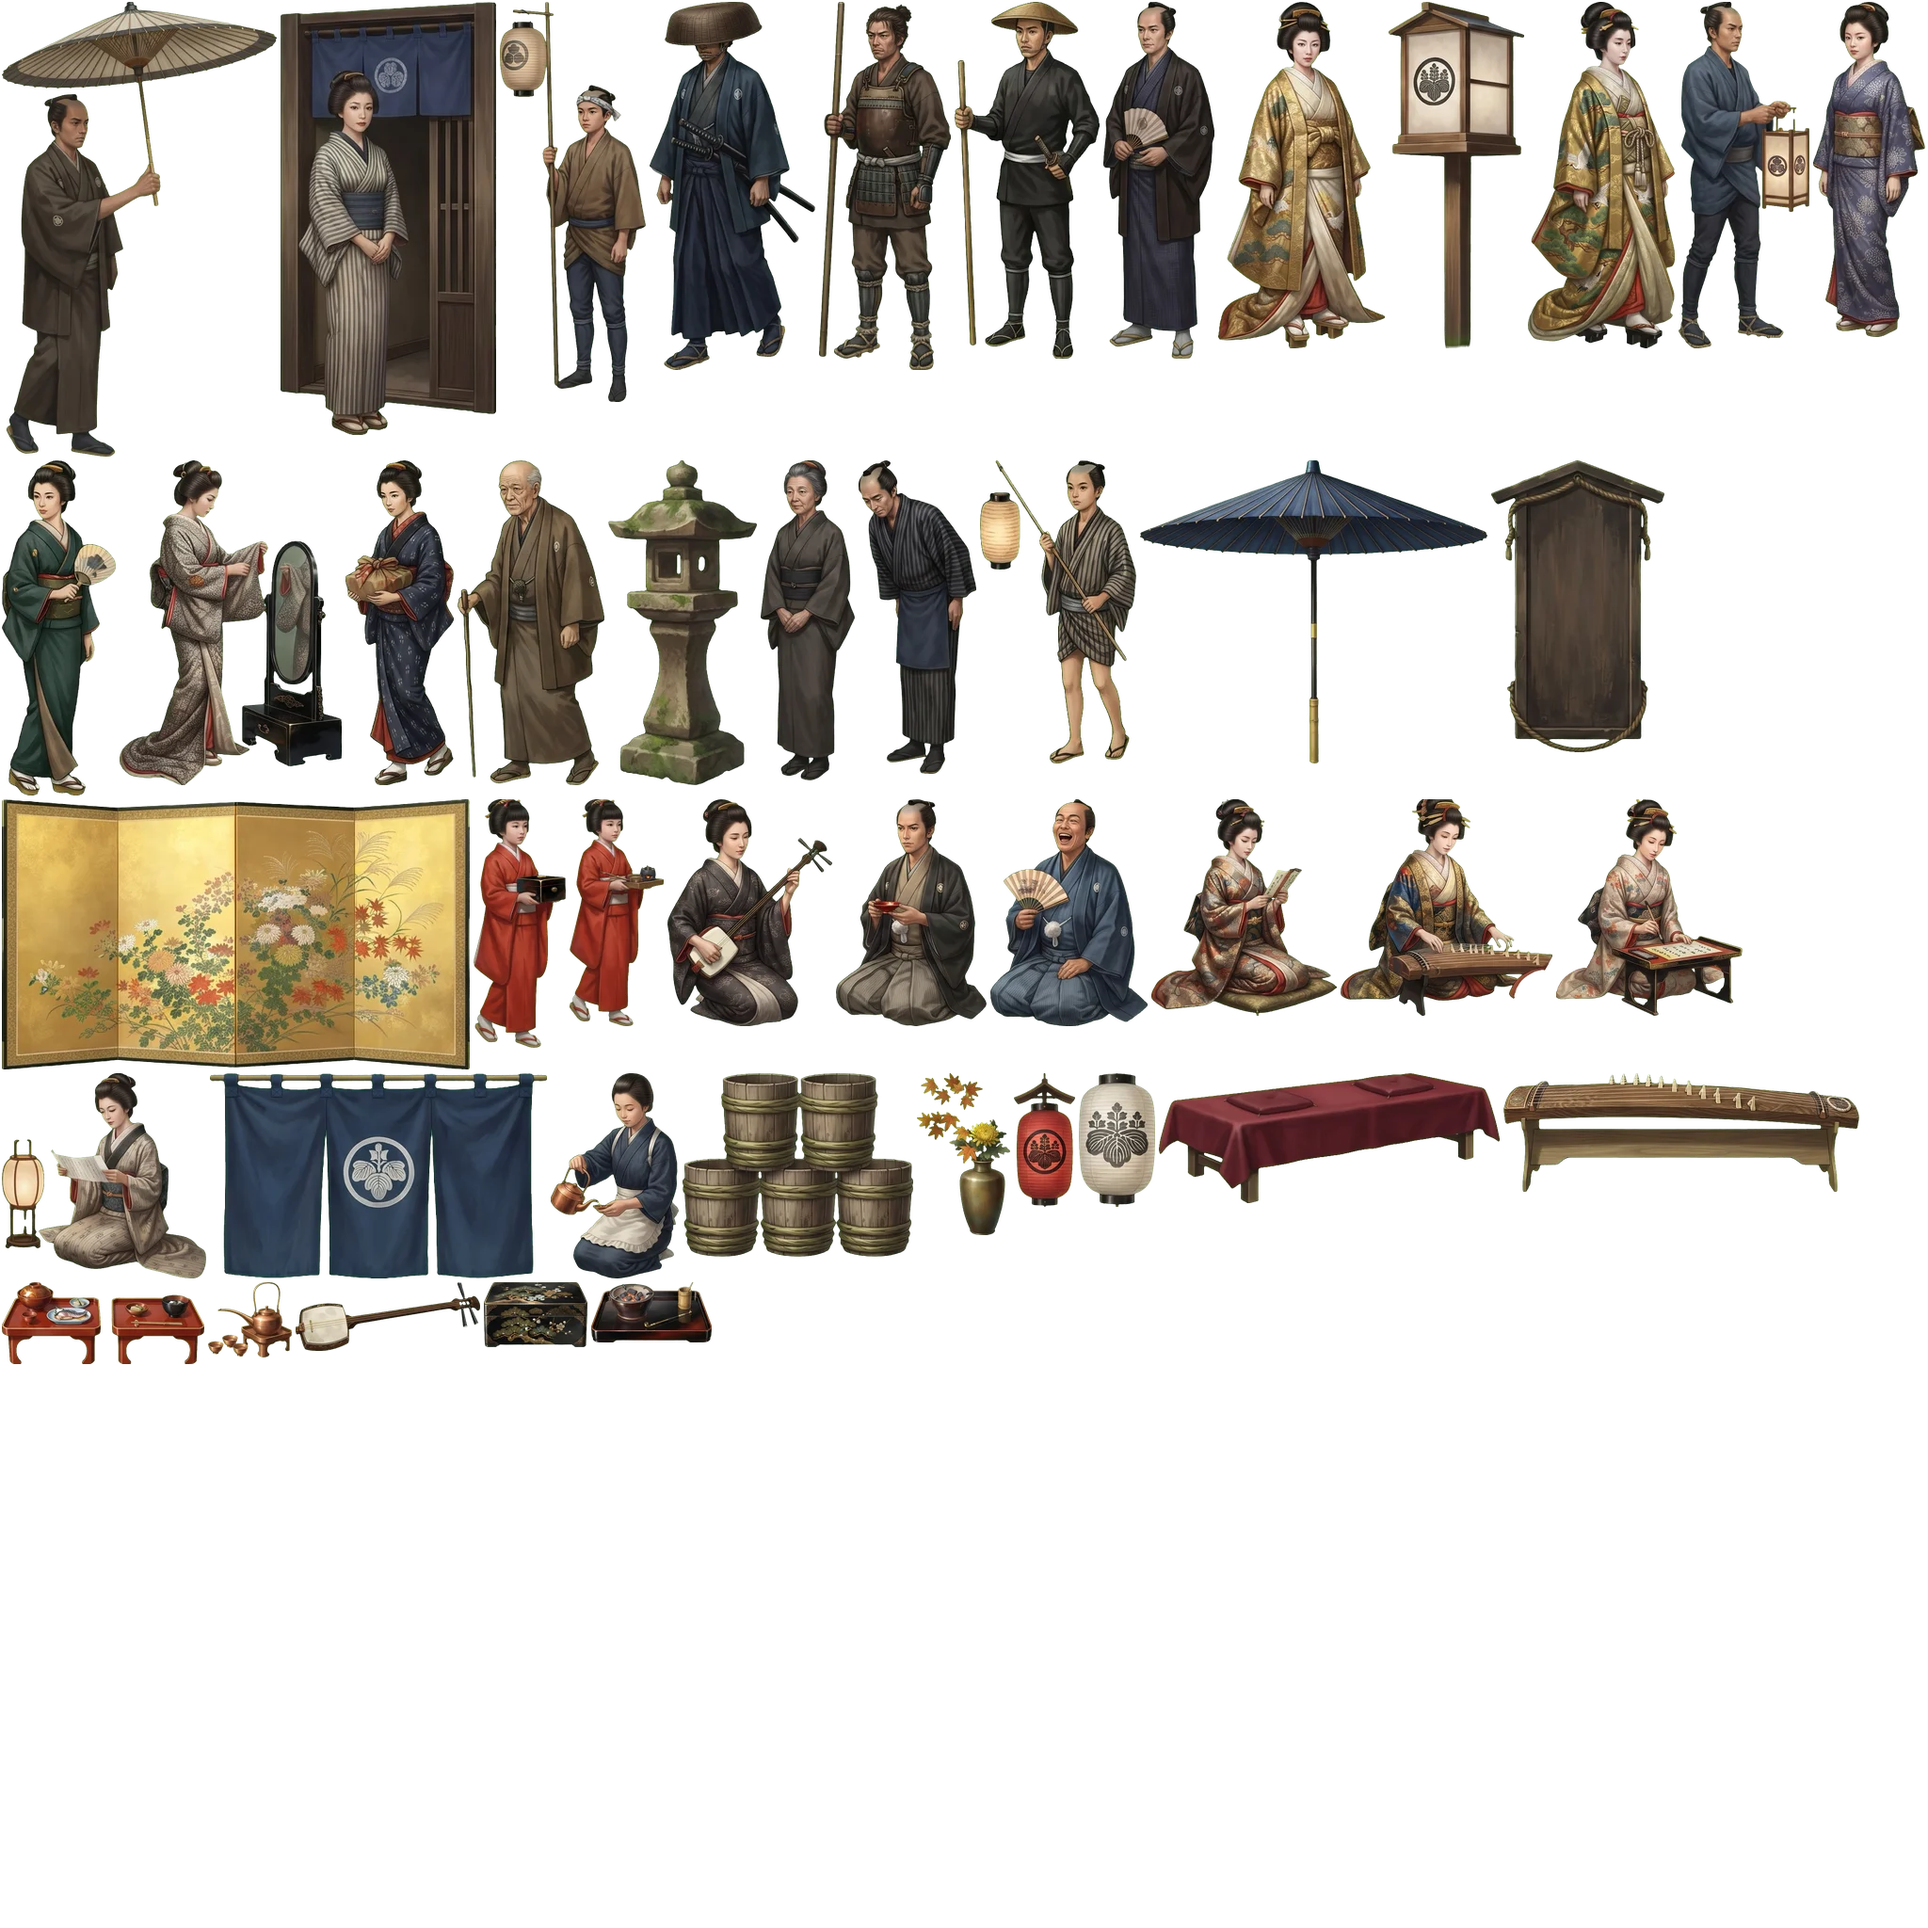
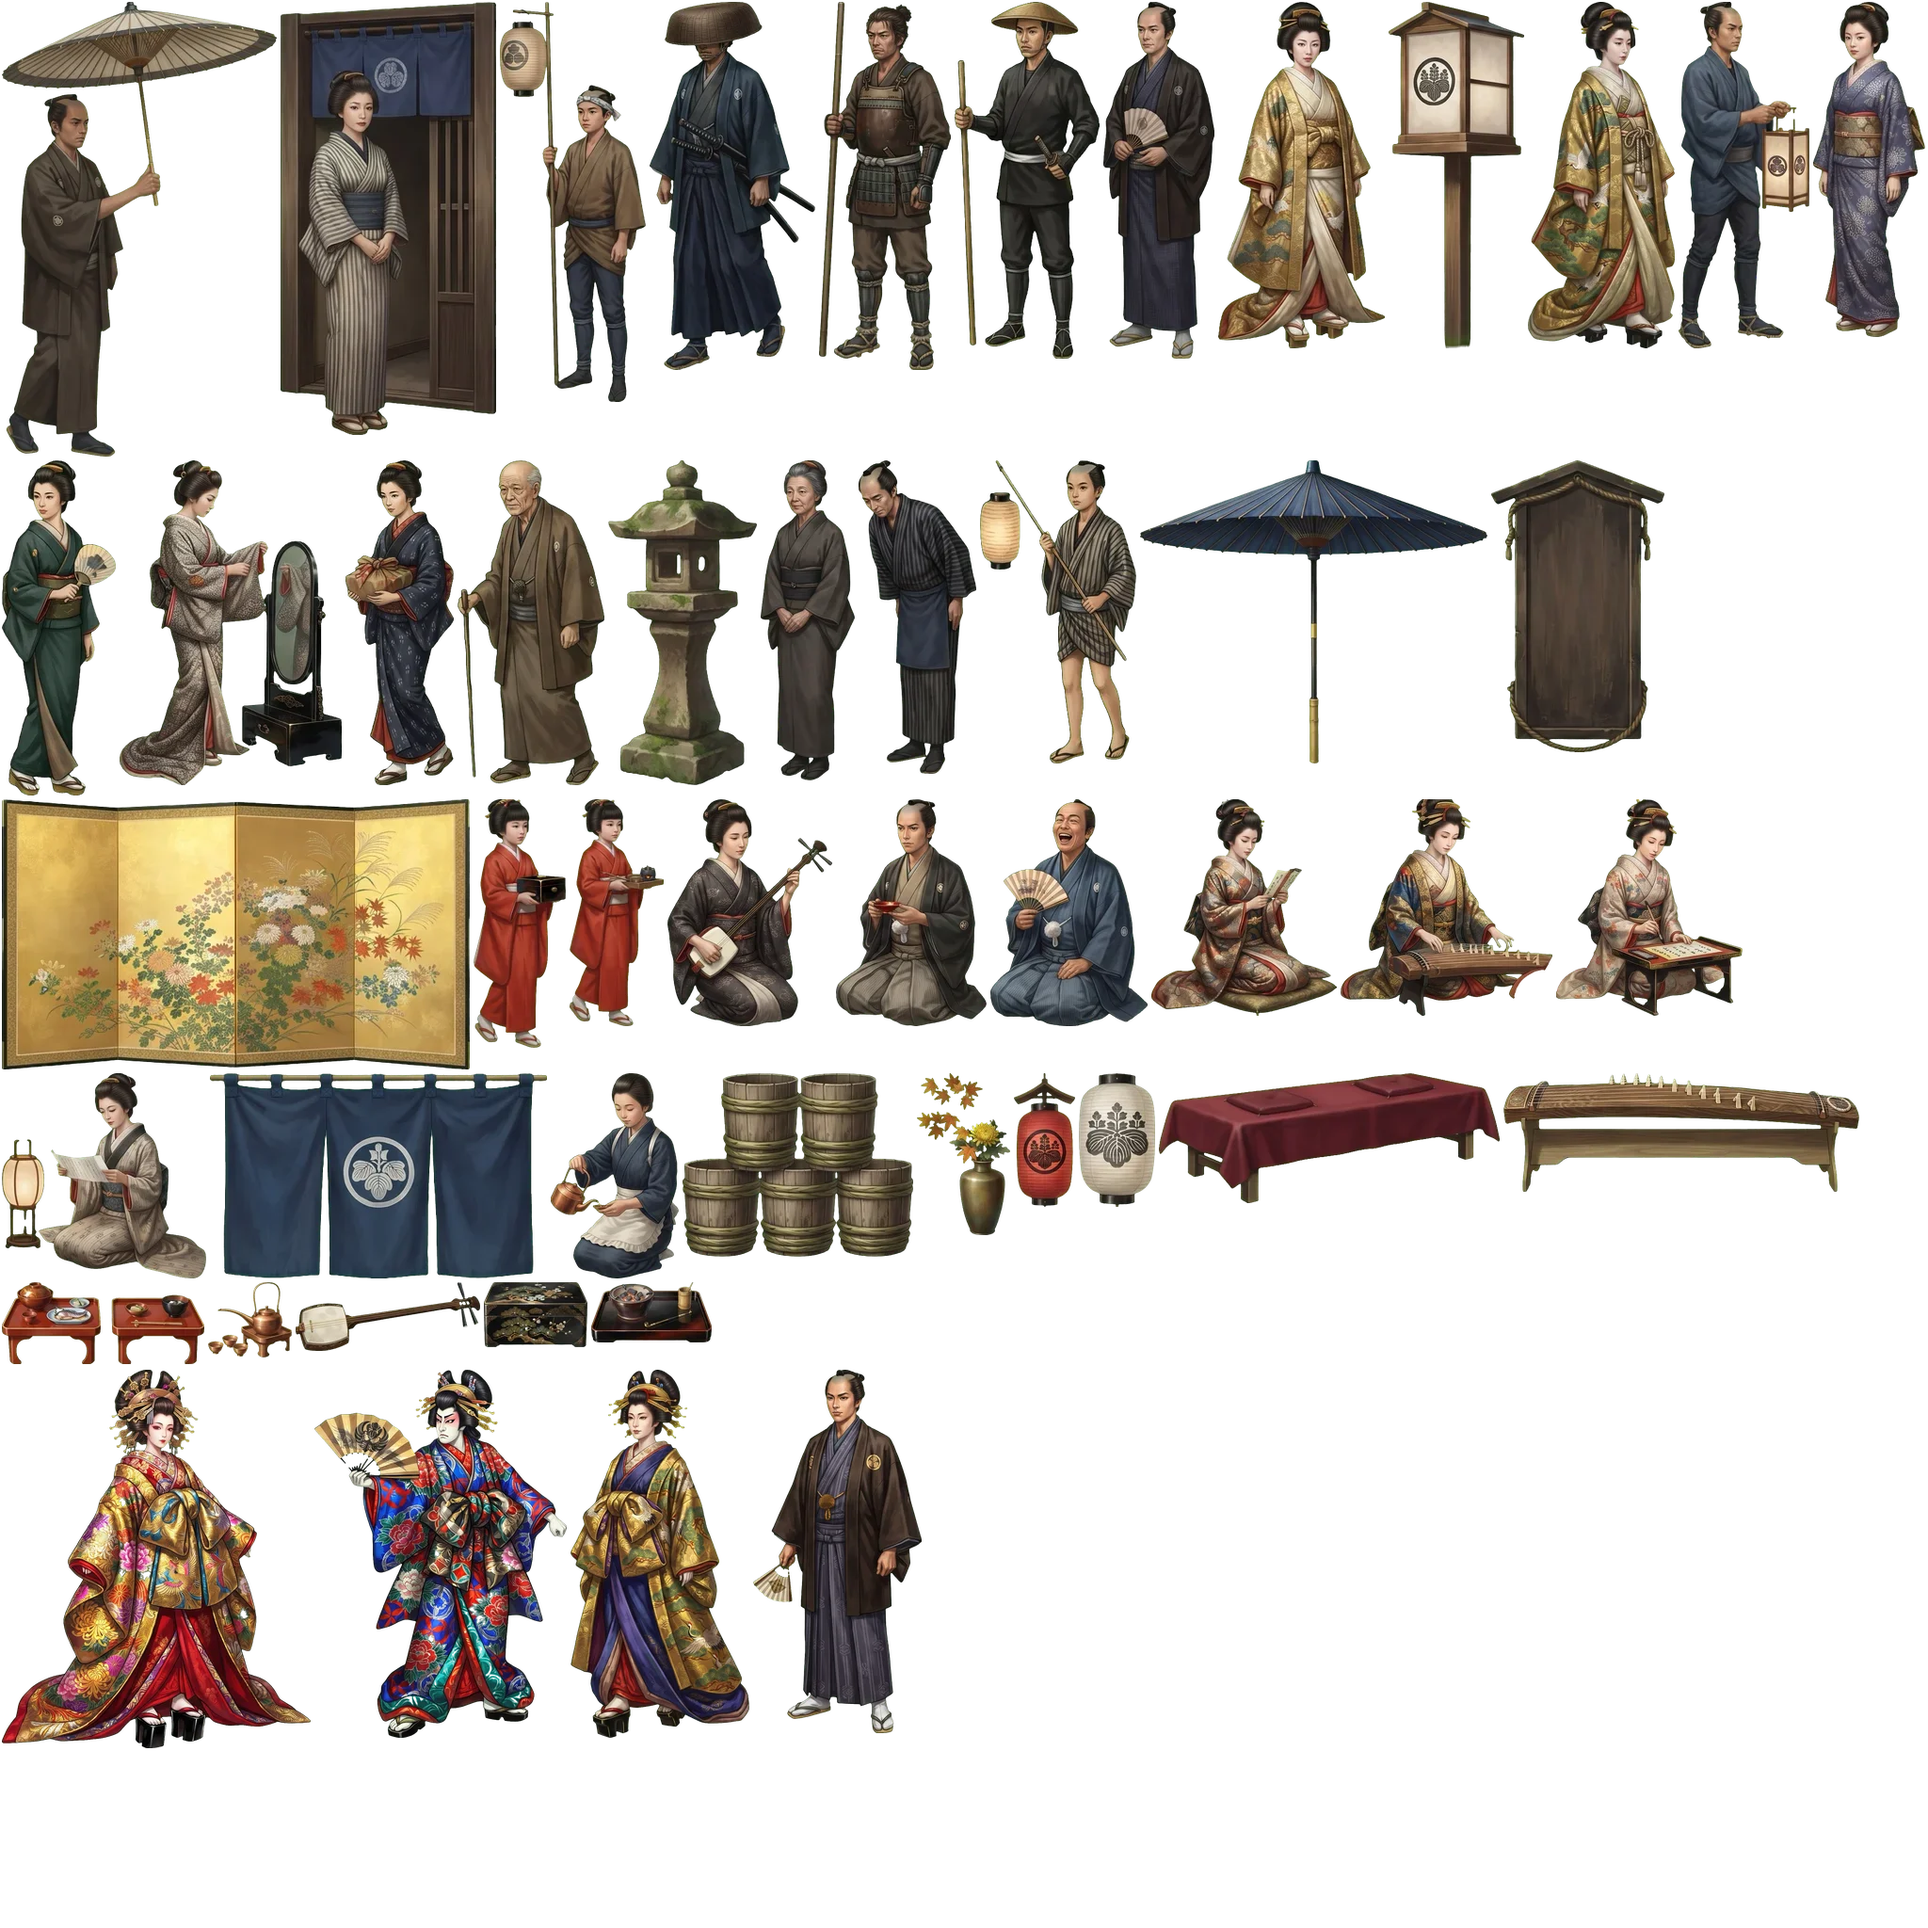
元吉原の人物（晴れ着の太夫2人・芝居町の役者・若旦那）を共通素材に追加
Claude-Session: https://claude.ai/code/session_01QTjZDsMQTCvnxksEpW3PQF

Changed region(s): [[0.1562, 0.6875, 0.5, 0.9062], [0.0, 0.6875, 0.1562, 0.9062]]

diff --git a/oshiro/common/README.md b/oshiro/common/README.md
@@ -20,7 +20,7 @@
 | `deco_azuchi.webp` | 装飾（安土で描き起こし）: 金の鯱 `az_shachi`・唐破風 `az_karahafu`・千鳥破風 `az_chidori`・のれんと提灯（天下布武 `az_noren_tenka`/`az_lan_tenka`、桐紋3種 `az_noren_kiri`・`az_noren_kiri53`・`az_noren_kiri57`/`az_lan_kiri`・`az_lan_kiri53`・`az_lan_kiri57`）。桐紋は豊臣家の大阪城などにも使える。安土では鯱と提灯を `deco_azuchi2` に移し、暖簾は `tex/az_noren_tenka.webp` を使うため、いまは読み込んでいない | （他の城向けの予備） |
 | `deco_azuchi2.webp` | 安土の人物と小物: 織田信長 `az_nobunaga`・小姓 `az_kosho`・奥の女房 `az_nyobo`・狩野派の絵師 `az_eshi`・茶人 `az_chajin`・普請の石工 `az_ishiku`・近江の商人 `az_omi`・楽市の店主 `az_tenshu`・湖の船頭 `az_sendo`・町の子ども `az_kodomo`・南蛮の商人 `az_nanban`・摠見寺の僧 `az_sokenso`／楽市の露店 `az_roten`・焼き物の露店 `az_yakimono`・魚売りの盤台 `az_bandai`・米俵の山 `az_komedawara`・荷車 `az_niguruma`・湊の杭 `az_kui`・小舟 `az_kobune`・茶屋の床几 `az_shogi`・酒樽と菰かぶり `az_sake`・高札（「定」） `az_kosatsu`・金の擬宝珠 `az_giboshi`・柱の昇り龍/降り龍 `az_ryu_up`/`az_ryu_dn`・金の鯱 `az_shachi`・天下布武の提灯 `az_lan_tenka`。町人・商人・僧・小物は戦国〜江戸初めの城下ならどこでも使える | 安土・江戸（atlas の5ページ目として読む。江戸は日本橋の町人・奥の女房（大奥）・小姓（中奥）・露店・小舟・金の鯱以外の小物に使用） |
 | `deco_ooku.webp` | 大奥の人物（江戸で描き起こし。2048px、アトラスの6ページ目として読む。位置と高さは江戸城の index.html の `deco_ooku` の行）: 将軍 `ok_shogun`・手燭の御中臈 `ok_teshoku_a`/`_b`・平伏する女中 `ok_ojigi`・御台所 `ok_midai`・御年寄 `ok_toshiyori`・平伏する御中臈 `ok_churo_bow`・茶の盆 `ok_tray`・水桶 `ok_oke`・燭台 `ok_shokudai`・衣装の盆 `ok_kimono`・御坊主 `ok_obozu`・書く読む `ok_shoin`・貝合わせ `ok_kaiawase`・琴と生け花 `ok_koto`／総触れの行列 `gy_*`（8人）／長局 `ng_saiho`・`ng_hoki`・`ng_andon`・`ng_komori`・`ng_cha`／広敷の男 `hs_yakunin`・`hs_kumigashira`・`hs_shonin_hako`・`hs_shonin_furoshiki`・`hs_ninsoku` | 江戸 |
-| `deco_yoshiwara.webp` | 元吉原の人物と道具（江戸で描き起こし。2048px、アトラスの7ページ目として読む。位置と高さは江戸城の index.html の `deco_yoshiwara` の行）: 遊女 `yw_*`（太夫・格子・端など）、太夫の道中 `yd_*`（太夫・禿2人・傘持ち・提灯持ち）、座敷の人 `yz_*`（琴・短冊・三味線・客の侍と町人・女中）、通りの人 `yp_*`（町人客・編笠の侍・遣手・揚屋の亭主・若い衆・番人など）と提灯・行灯・灯籠・床几・看板、座敷の道具 `yi_*`（金屏風・膳・銚子・煙草盆・花瓶・文箱・琴・三味線） | 江戸 |
+| `deco_yoshiwara.webp` | 元吉原の人物と道具（江戸で描き起こし。2048px、アトラスの7ページ目として読む。位置と高さは江戸城の index.html の `deco_yoshiwara` の行）: 遊女 `yw_*`（太夫・格子・端など）、太夫の道中 `yd_*`（太夫・禿2人・傘持ち・提灯持ち）、座敷の人 `yz_*`（琴・短冊・三味線・客の侍と町人・女中）、晴れ着の太夫 `yo_oiran`・`yo_tayu2`、役者 `yo_kabuki`、通りの人 `yp_*`（若旦那 `yp_wakadanna`・町人客・編笠の侍・遣手・揚屋の亭主・若い衆・番人など）と提灯・行灯・灯籠・床几・看板、座敷の道具 `yi_*`（金屏風・膳・銚子・煙草盆・花瓶・文箱・琴・三味線） | 江戸 |
 | `tex/az_noren_tenka.webp` | 天下布武の暖簾（512px。2048pxの装飾ページを丸ごと読まずに済むよう切り出したもの） | 安土 |
 | `atlas.json` | 切り出し位置。`deco.edo` は江戸の建物・調度品・具足・欄間（下の表）。`s` が共通4ページ（`[ページ,x,y,幅,高さ,高さm]`）、`deco.himeji` / `deco.inuyama` / `deco.azuchi` がそれぞれの装飾ページ（ページ番号4）、`deco.azuchi2` も安土の5ページ目（ページ番号4。安土は `deco.azuchi` を読まずにこちらだけを使う） | 新しい城はこれを使う |
 
